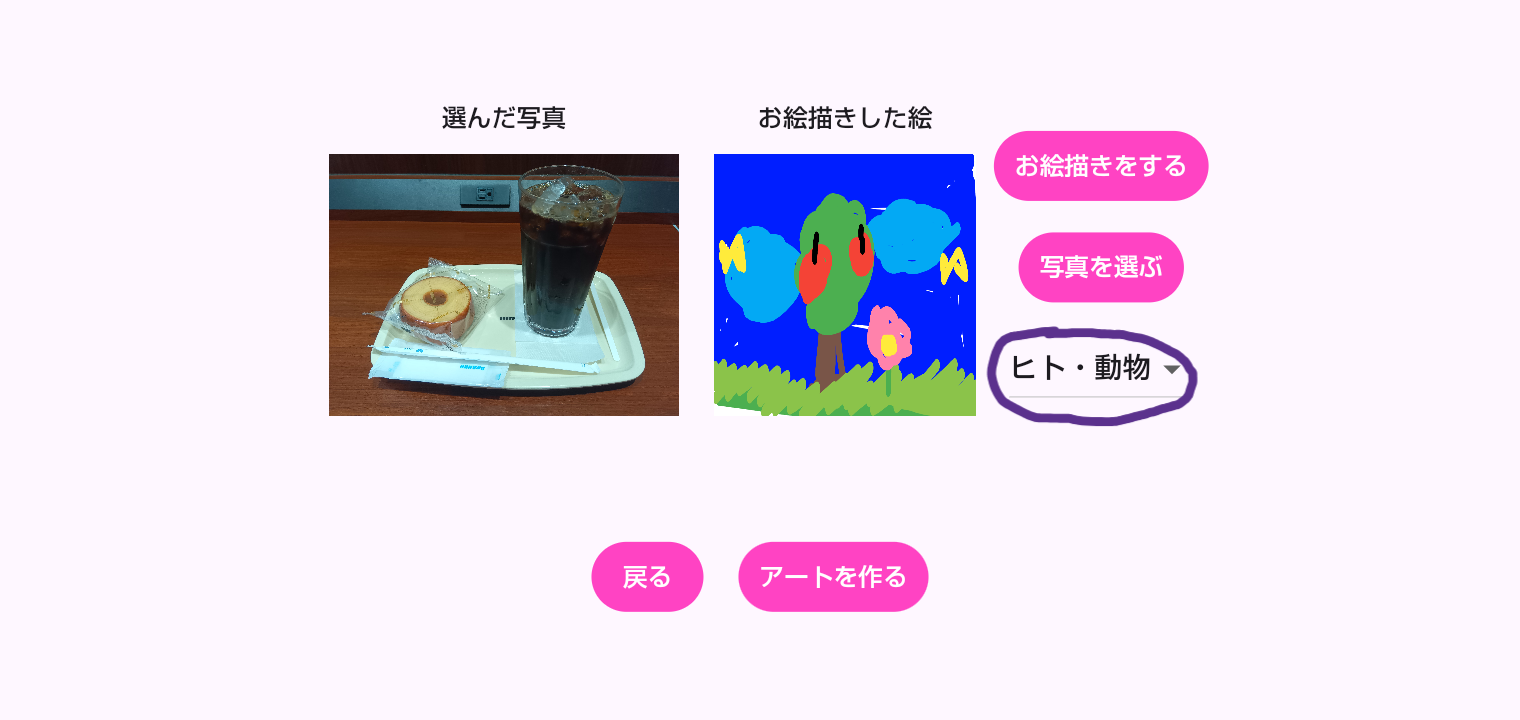
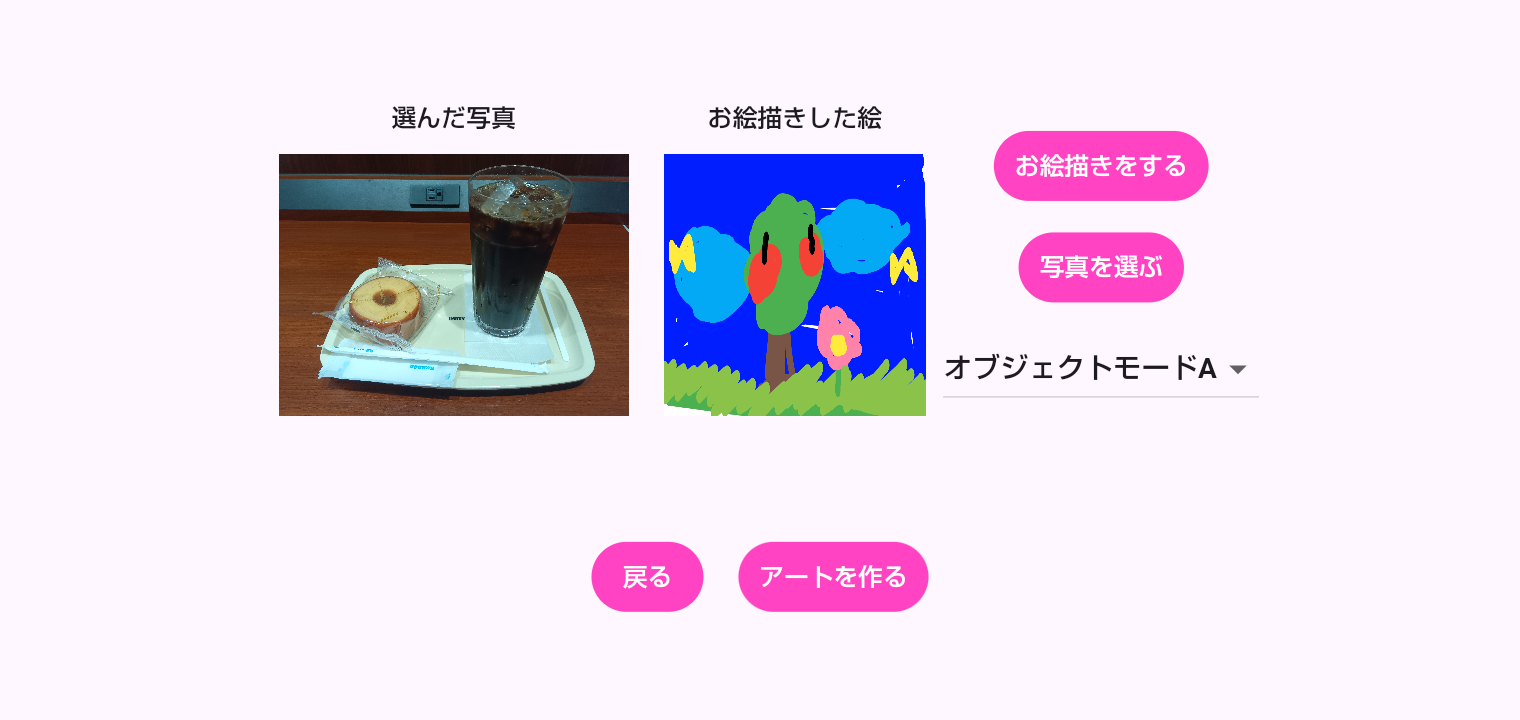
feat: repair_testplay

Changed region(s): [[0.1855, 0.2139, 0.8039, 0.6111], [0.2474, 0.1222, 0.3711, 0.1833], [0.4638, 0.1528, 0.6184, 0.1833]]

diff --git a/lib/screens/generate_page.dart b/lib/screens/generate_page.dart
@@ -14,6 +14,7 @@ import 'package:audioplayers/audioplayers.dart';
 import 'package:provider/provider.dart';
 import 'package:ai_art/artproject/audio_provider.dart';
 import 'package:ai_art/artproject/effect_utils.dart';
+import 'dart:async'; // Timer を利用するために追加
 
 int randomIntWithRange(int min, int max) {
   int value = math.Random().nextInt(max - min);
@@ -134,21 +135,83 @@ class _GeneratePageState extends State<GeneratePage> {
     loadImages(); // 初期化時に画像を読み込む
     loadDrawings(); // 描画データを読み込む
     _getWifiName();
+    _startResultCheckTimer();
+  }
+
+  // 状態監視を定期的に行うタイマー
+  void _startResultCheckTimer() {
+    Timer.periodic(Duration(seconds: 5), (timer) async {
+      // 結果が準備できているか確認
+      if (await _isResultReady()) {
+        timer.cancel(); // タイマーを停止
+        setState(() {
+          isresult_exist = true;
+        });
+        _showResultDialog(); // 結果ダイアログを表示
+      }
+    });
+  }
+
+  // 結果が準備できているかを判定する関数（仮のロジックを実装）
+  Future<bool> _isResultReady() async {
+    // サーバーにリクエストを送る場合のコード例
+    await Future.delayed(Duration(seconds: 1)); // サーバーリクエストのシミュレーション
+    return isresult_exist; // 現在の isresult_exist の値を返す
+  }
+
+  // 結果ダイアログを表示する関数
+  void _showResultDialog() {
+    showDialog(
+      context: context,
+      builder: (BuildContext dialogContext) {
+        return AlertDialog(
+          title: Text('絵ができたよー'),
+          content: Text('まちがいさがしの答えも見れるよー'),
+          actions: [
+            TextButton(
+              onPressed: () {
+                Navigator.of(dialogContext).pop();
+              },
+              child: Text('OK'),
+            ),
+          ],
+        );
+      },
+    );
+  }
+
+  void _showWaitDialog() {
+    showDialog(
+      context: context,
+      builder: (BuildContext dialogContext) {
+        return AlertDialog(
+          title: Text('ちょっとまってね！！！'),
+          content: Text('まだできてないよー'),
+          actions: [
+            TextButton(
+              onPressed: () {
+                Navigator.of(dialogContext).pop();
+              },
+              child: Text('OK'),
+            ),
+          ],
+        );
+      },
+    );
   }
 
   void _showDialog(BuildContext context) {
     Size screenSize = MediaQuery.sizeOf(context);
-    final audioProvider = Provider.of<AudioProvider>(context);
+    final audioProvider = Provider.of<AudioProvider>(context, listen: false);
     double fontsize = 14;
     String random_num = randomIntWithRange(1, 7).toString();
-    int is_answer = 1; // This will be part of the state now
+    int is_answer = 1;
 
     showDialog<void>(
       context: context,
-      barrierDismissible: false, // (追加)ユーザーがモーダルを閉じないようにする
+      barrierDismissible: false,
       builder: (BuildContext context) {
         return StatefulBuilder(
-          // Use StatefulBuilder to manage the state
           builder: (BuildContext context, setState) {
             return Dialog(
               child: Container(
@@ -157,114 +220,118 @@ class _GeneratePageState extends State<GeneratePage> {
                 child: Column(
                   mainAxisSize: MainAxisSize.min,
                   children: [
-                    Text('絵ができるまでまってね',
-                        style: TextStyle(
-                            fontWeight: FontWeight.bold, fontSize: fontsize)),
-                    Text('楽しいまちがいさがしゲームで遊んでね',
-                        style: TextStyle(
-                            fontWeight: FontWeight.bold, fontSize: fontsize)),
+                    Text(
+                      '絵ができるまで楽しいまちがいさがしで遊んでね',
+                      style: TextStyle(
+                        fontWeight: FontWeight.bold,
+                        fontSize: fontsize,
+                      ),
+                    ),
+                    Text(
+                      'まちがいは3つあるよ',
+                      style: TextStyle(
+                        fontWeight: FontWeight.bold,
+                        fontSize: fontsize,
+                      ),
+                    ),
                     SizedBox(height: 20),
-                    Row(mainAxisAlignment: MainAxisAlignment.center, children: [
-                      Padding(
-                        padding: EdgeInsets.all(5.0),
-                        child: Container(
-                          height: screenSize.width * 0.3,
-                          width: screenSize.width * 0.3,
-                          child: FittedBox(
-                            fit: BoxFit.fill,
-                            child: Image.asset('assets/difference/original/' +
-                                random_num +
-                                '.png'),
-                          ),
-                        ),
-                      ),
-                      Padding(
-                        padding: EdgeInsets.all(5.0),
-                        child: Container(
-                          height: screenSize.width * 0.3,
-                          width: screenSize.width * 0.3,
-                          child: FittedBox(
-                            fit: BoxFit.fill,
-                            child: Image.asset('assets/difference/' +
-                                (is_answer == 1 ? 'joke/' : 'answer/') +
-                                random_num +
-                                '.png'),
-                          ),
-                        ),
-                      ),
-                      Column(
-                        children: [
-                          Container(
-                            alignment: Alignment.centerRight,
-                            child: TextButton(
-                              onPressed: () {
-                                audioProvider.playSound("tap1.mp3");
-                                if (isresult_exist == true) {
-                                  // Toggle the is_answer state
-                                  setState(() {
-                                    if (is_answer == 1) {
-                                      is_answer = 2;
-                                    } else {
-                                      is_answer = 1;
-                                    }
-                                  });
-                                } else {
-                                  ScaffoldMessenger.of(context).showSnackBar(
-                                    SnackBar(content: Text('まだできてないよー')),
-                                  );
-                                }
-                              },
-                              style: TextButton.styleFrom(
-                                backgroundColor:
-                                    Color.fromARGB(255, 255, 67, 195),
-                              ),
-                              child: Text(
-                                is_answer == 1 ? '答えを見る' : 'もとの絵を見る',
-                                style: TextStyle(
-                                    fontWeight: FontWeight.bold,
-                                    fontSize: fontsize,
-                                    color: Colors.white),
-                              ),
+                    Row(
+                      mainAxisAlignment: MainAxisAlignment.center,
+                      children: [
+                        Padding(
+                          padding: EdgeInsets.all(5.0),
+                          child: Container(
+                            height: screenSize.width * 0.27,
+                            width: screenSize.width * 0.27,
+                            child: FittedBox(
+                              fit: BoxFit.fill,
+                              child: Image.asset('assets/difference/original/' +
+                                  random_num +
+                                  '.png'),
                             ),
                           ),
-                          Container(
-                            alignment: Alignment.centerRight,
-                            child: TextButton(
-                              onPressed: () {
-                                if (isresult_exist == true) {
-                                  audioProvider.playSound("established.mp3");
-                                  Navigator.pushNamed(
-                                    context,
-                                    '/output',
-                                    arguments: {
-                                      'outputImage': resultbytes2,
-                                      'drawingImageData':
-                                          Uint8List.fromList(drawingImageData!),
-                                    },
-                                  );
-                                } else {
+                        ),
+                        Padding(
+                          padding: EdgeInsets.all(5.0),
+                          child: Container(
+                            height: screenSize.width * 0.27,
+                            width: screenSize.width * 0.27,
+                            child: FittedBox(
+                              fit: BoxFit.fill,
+                              child: Image.asset('assets/difference/' +
+                                  (is_answer == 1 ? 'joke/' : 'answer/') +
+                                  random_num +
+                                  '.png'),
+                            ),
+                          ),
+                        ),
+                        Column(
+                          children: [
+                            Container(
+                              alignment: Alignment.centerRight,
+                              child: TextButton(
+                                onPressed: () {
                                   audioProvider.playSound("tap1.mp3");
-                                  ScaffoldMessenger.of(context).showSnackBar(
-                                    SnackBar(content: Text('まだできてないよー')),
-                                  );
-                                }
-                              },
-                              style: TextButton.styleFrom(
-                                backgroundColor:
-                                    Color.fromARGB(255, 255, 67, 195),
-                              ),
-                              child: Text(
-                                '完成した絵を見る',
-                                style: TextStyle(
+                                  if (isresult_exist == true) {
+                                    setState(() {
+                                      is_answer = is_answer == 1 ? 2 : 1;
+                                    });
+                                  } else {
+                                    _showWaitDialog();
+                                  }
+                                },
+                                style: TextButton.styleFrom(
+                                  backgroundColor:
+                                      Color.fromARGB(255, 255, 67, 195),
+                                ),
+                                child: Text(
+                                  is_answer == 1 ? '答えを見る' : 'もとの絵を見る',
+                                  style: TextStyle(
                                     fontWeight: FontWeight.bold,
                                     fontSize: fontsize,
-                                    color: Colors.white),
+                                    color: Colors.white,
+                                  ),
+                                ),
                               ),
                             ),
-                          ),
-                        ],
-                      ),
-                    ]),
+                            Container(
+                              alignment: Alignment.centerRight,
+                              child: TextButton(
+                                onPressed: () {
+                                  if (isresult_exist == true) {
+                                    audioProvider.playSound("established.mp3");
+                                    Navigator.pushNamed(
+                                      context,
+                                      '/output',
+                                      arguments: {
+                                        'outputImage': resultbytes2,
+                                        'drawingImageData': Uint8List.fromList(
+                                            drawingImageData!),
+                                      },
+                                    );
+                                  } else {
+                                    audioProvider.playSound("tap1.mp3");
+                                    _showWaitDialog();
+                                  }
+                                },
+                                style: TextButton.styleFrom(
+                                  backgroundColor:
+                                      Color.fromARGB(255, 255, 67, 195),
+                                ),
+                                child: Text(
+                                  '完成した絵を見る',
+                                  style: TextStyle(
+                                    fontWeight: FontWeight.bold,
+                                    fontSize: fontsize,
+                                    color: Colors.white,
+                                  ),
+                                ),
+                              ),
+                            ),
+                          ],
+                        ),
+                      ],
+                    ),
                   ],
                 ),
               ),
@@ -288,14 +355,28 @@ class _GeneratePageState extends State<GeneratePage> {
       items: const [
         DropdownMenuItem(
           value: 1,
-          child: Text('ヒト・動物',
+          child: Text('ワイドモードA',
               style: TextStyle(
                 fontWeight: FontWeight.bold,
               )),
         ),
         DropdownMenuItem(
           value: 2,
-          child: Text('食べ物',
+          child: Text('オブジェクトモードA',
+              style: TextStyle(
+                fontWeight: FontWeight.bold,
+              )),
+        ),
+        DropdownMenuItem(
+          value: 3,
+          child: Text('ワイドモードB',
+              style: TextStyle(
+                fontWeight: FontWeight.bold,
+              )),
+        ),
+        DropdownMenuItem(
+          value: 4,
+          child: Text('オブジェクトモードB',
               style: TextStyle(
                 fontWeight: FontWeight.bold,
               )),
@@ -473,6 +554,7 @@ class _GeneratePageState extends State<GeneratePage> {
                             return; // 早期リターン
                           }
                           audioProvider.playSound("tap2.mp3");
+
                           List<int> photoBytes = image!.readAsBytesSync();
                           //base64にエンコード
                           String base64Image = base64Encode(photoBytes);

diff --git a/lib/screens/tutorial_page.dart b/lib/screens/tutorial_page.dart
@@ -27,9 +27,13 @@ class _TutorialPageState extends State<TutorialPage> {
     "次は写真を選んでみよう\n「写真を選ぶ」を押してね",
     "写真アプリから写真を選んだよ",
     "モード変更もしてみてね\n変更すると写真の切り抜きのやり方が変わるよ",
-    "人もしくはペットの写真は「ヒト・動物」\n食べ物や人形は「食べ物」を選んでね",
-    "今回はおやつを選んだから「食べ物」でいくよ",
-    "「アートをつくる」でアートを作ろう！\n※ネットつながるところで行ってね",
+    "モードを選ぶことができるよ！\n次のページからモードの説明するよ",
+    "それぞれのモードの話をするよ！\nAは絵の世界に入ることができ、Bはリアルに絵の世界の物を召喚できるよ！",
+    "「ワイドモードA」はテーブルや人など複数ある時にオススメ！",
+    "「オブジェクトモードA」はおやつとか近くにある時にオススメ！\n逆に複数人がいる写真には向いてないんだ！",
+    "「ワイドモードB」はテーブルや人など複数ある時にオススメ！",
+    "「オブジェクトモードB」はおやつとか近くにある時にオススメ！\n特にこのモードは召喚しやすいよ！",
+    "「アートをつくる」で「オブジェクトモードA」のアートを作ろう！\n※ネットつながるところで行ってね",
     "作ってる間はまちがいさがしであそぼう",
     "音が鳴ったら絵が完成するよ！\n絵もできると同時に間違い探しの答えも見れるよ",
     "音が鳴ったら絵が完成するよ！\n絵ができたら「完成した絵を見る」を押してね",
